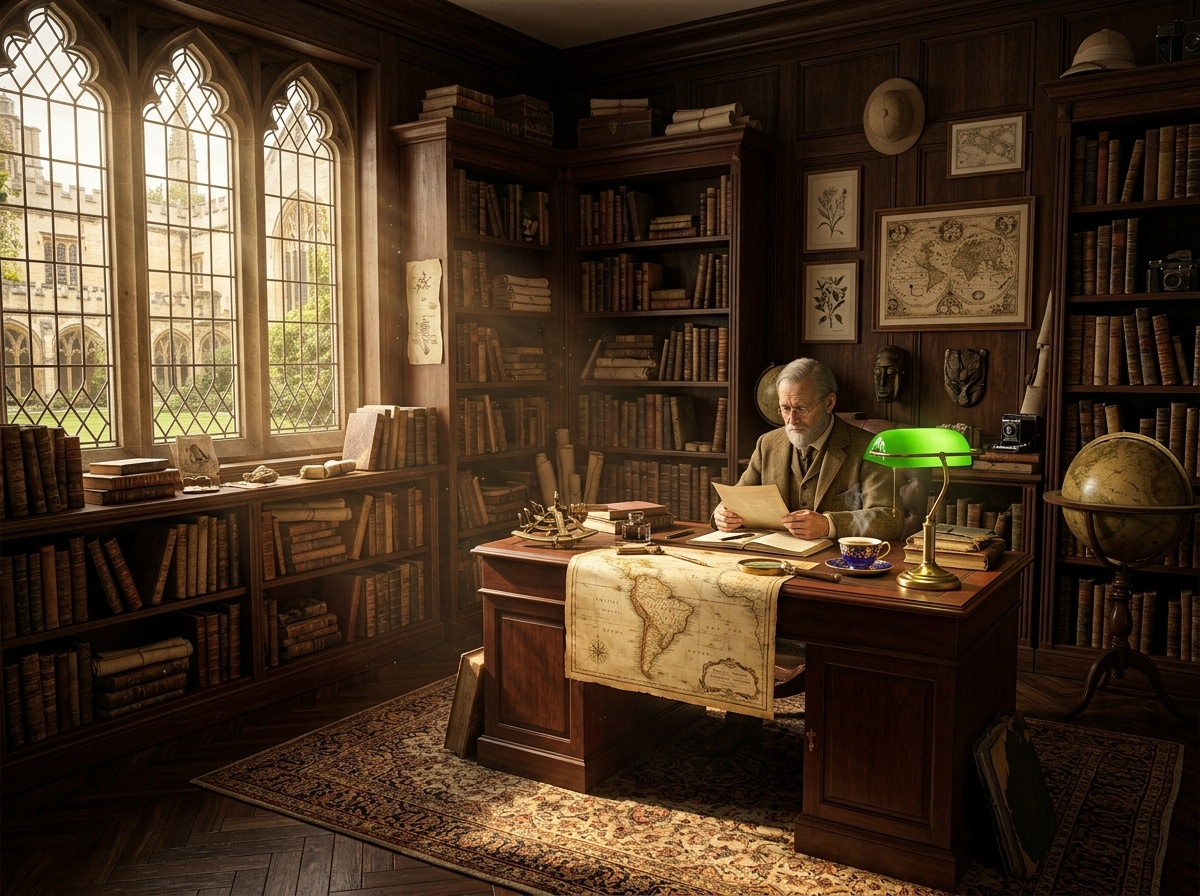
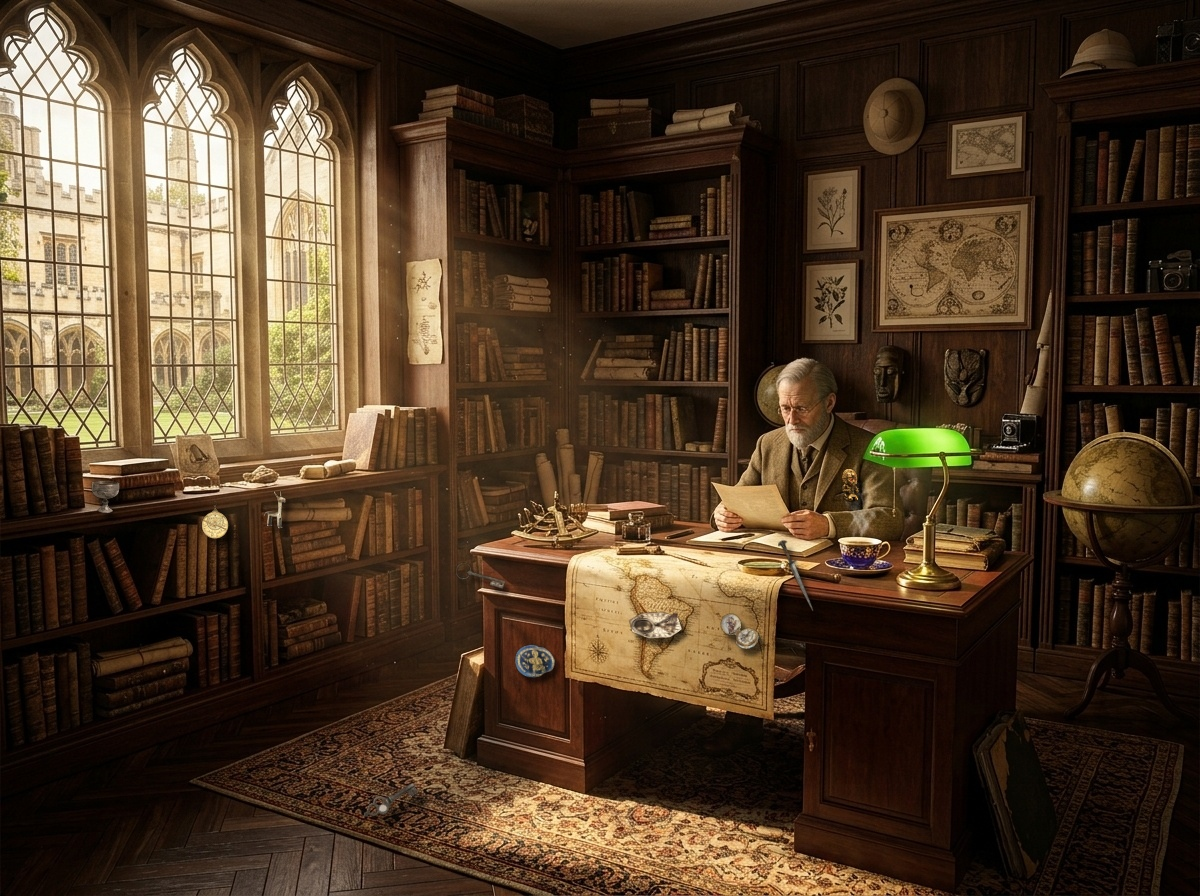
feat: level 1 masterwork - 10 genuine museum relics stolen by occult hand

diff --git a/src/data/levelRegistry.ts b/src/data/levelRegistry.ts
@@ -729,16 +729,16 @@ export function generateAll120Levels(): Level[] {
     let diffsForLevel: Difference[];
     if (isLevelOne) {
       diffsForLevel = [
-        { id: `lvl${id}_d1`, x: 76.50, y: 47.99, radius: 5.0, name: "Il Paralume in Vetro Rosso Rubino", loreClue: "Il classico paralume in vetro opalino della lampada da tavolo è passato da verde smeraldo a un caldo rosso rubino." },
-        { id: `lvl${id}_d2`, x: 71.83, y: 62.50, radius: 4.5, name: "La Tazza in Porcellana Rosso Cremisi", loreClue: "La tazza da tè in fine porcellana sulla scrivania presenta uno smalto rosso cremisi con filigrana dorata al posto del blu cobalto." },
-        { id: `lvl${id}_d3`, x: 65.17, y: 52.23, radius: 4.0, name: "La Cravatta in Seta Bordeaux", loreClue: "Il professor Bellini indossa una cravatta in pura seta color bordeaux scuro al posto della cravatta in tweed marrone." },
-        { id: `lvl${id}_d4`, x: 64.58, y: 63.62, radius: 4.5, name: "La Lente d'Ingrandimento in Argento Sterling", loreClue: "La montatura e il manico cesellato della lente d'ingrandimento sulla mappa sono in argento lucido anziché in ottone dorato." },
-        { id: `lvl${id}_d5`, x: 45.00, y: 59.15, radius: 4.5, name: "Il Sestante Astronomico in Argento e Peltro", loreClue: "Il corpo e l'arco graduato del sestante nautico sull'angolo sinistro della scrivania sono forgiati in argento antico e peltro anziché in ottone." },
-        { id: `lvl${id}_d6`, x: 53.75, y: 56.03, radius: 4.5, name: "Il Tomo in Pelle Blu Oxford", loreClue: "La copertina in cuoio del tomo superiore posato dietro il calamaio di cristallo è in pregiata pelle blu notte anziché marrone rossiccio." },
-        { id: `lvl${id}_d7`, x: 73.83, y: 12.83, radius: 5.0, name: "Il Barometro Navale Vittoriano in Ottone", loreClue: "Sulla boiserie in mogano della parete, al posto del casco coloniale è montato un autentico barometro aneroide d'epoca con quadrante a numeri romani." },
-        { id: `lvl${id}_d8`, x: 97.92, y: 31.25, radius: 4.0, name: "L'Obiettivo in Ottone della Fotocamera", loreClue: "Il barilotto ottico della macchina fotografica vintage sullo scaffale di destra è rifinito in ottone dorato brunito anziché in alluminio cromato." },
-        { id: `lvl${id}_d9`, x: 73.75, y: 41.29, radius: 4.5, name: "La Maschera Rituale in Bronzo del Benin", loreClue: "La maschera etnica appesa al pannello di legno dietro la lampada è un'antica fusione in bronzo dorato del Benin anziché in legno scuro." },
-        { id: `lvl${id}_d10`, x: 91.25, y: 5.58, radius: 4.5, name: "Il Casco Coloniale in Tessuto Bianco Panama", loreClue: "Il casco da spedizione posato sulla cornice superiore della grande libreria è in tela bianca panama d'ordinanza anziché color cachi." },
+        { id: `lvl${id}_d1`, x: 18.25, y: 58.71, radius: 4.5, name: "Astrolabio Medievale in Ottone", loreClue: "Un autentico astrolabio astronomico in ottone cesellato per calcolare la rotta celeste verso Paititi, trafugato dal ripiano sotto la bifora." },
+        { id: `lvl${id}_d2`, x: 23.17, y: 57.25, radius: 4.5, name: "Effigie Sacra del Lama d'Argento", loreClue: "Una statuetta votiva incaica in argento massiccio e oro, venerata guida rituale attraverso le Ande, sottratta dal davanzale." },
+        { id: `lvl${id}_d3`, x: 8.83, y: 55.47, radius: 4.5, name: "Calice d'Argento con Iscrizione Greca", loreClue: "Un calice cerimoniale in argento sbalzato con formule sacre elleniche per i riti propiziatori, rimosso dalla pila di libri." },
+        { id: `lvl${id}_d4`, x: 40.25, y: 64.84, radius: 4.5, name: "Chiave Gotica con Ingegno a Croce", loreClue: "Un'antica chiave monumentale in ferro battuto che dischiude gli archivi segreti del collegio, scomparsa dal piano della scrivania." },
+        { id: `lvl${id}_d5`, x: 54.83, y: 70.20, radius: 4.5, name: "Meridiana Solare Tascabile", loreClue: "Una bussola solare ottagonale in ottone con gnomone pieghevole, trafugata dal bordo della mappa del Sud America." },
+        { id: `lvl${id}_d6`, x: 61.92, y: 70.87, radius: 4.5, name: "Cronometro da Tasca Smaltato", loreClue: "Un orologio da tasca in oro con smalti policromi e cifre romane, rubato accanto alla lampada da tavolo." },
+        { id: `lvl${id}_d7`, x: 66.25, y: 64.17, radius: 4.5, name: "Daga Cerimoniale con Impugnatura in Corno", loreClue: "Un pugnale rituale con lama forgiata e impugnatura intagliata, sottratto dalla pila di tomi sulla scrivania." },
+        { id: `lvl${id}_d8`, x: 44.75, y: 74.11, radius: 4.5, name: "Medaglione d'Oro del Sole Inti", loreClue: "Un disco aureo con i raggi del dio Sole indicante le coordinate dell'altopiano perduto, svanito dal lembo della mappa." },
+        { id: `lvl${id}_d9`, x: 32.92, y: 89.84, radius: 4.5, name: "Chiave Forgiata a Cuore sul Tappeto", loreClue: "Una pesante chiave quattrocentesca caduta sul tappeto persiano nella fuga precipitosa della Mano Occulta." },
+        { id: `lvl${id}_d10`, x: 71.17, y: 54.69, radius: 4.5, name: "Idolo Aureo di Chachapoya", loreClue: "Il leggendario idolo d'oro delle popolazioni delle nubi, la reliquia cardine di tutta la spedizione, trafugata dallo scaffale a destra." },
       ];
     } else if (isLevelTwo) {
       diffsForLevel = [
